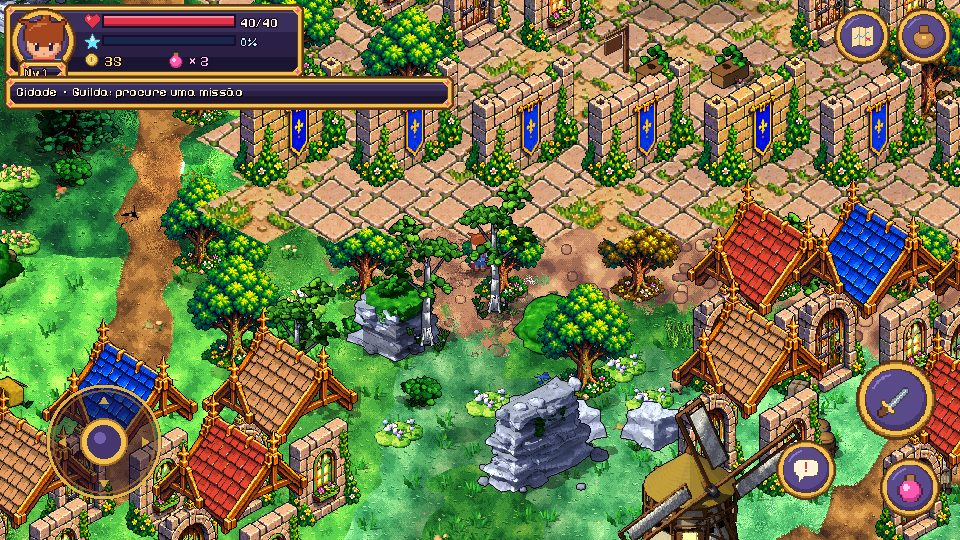
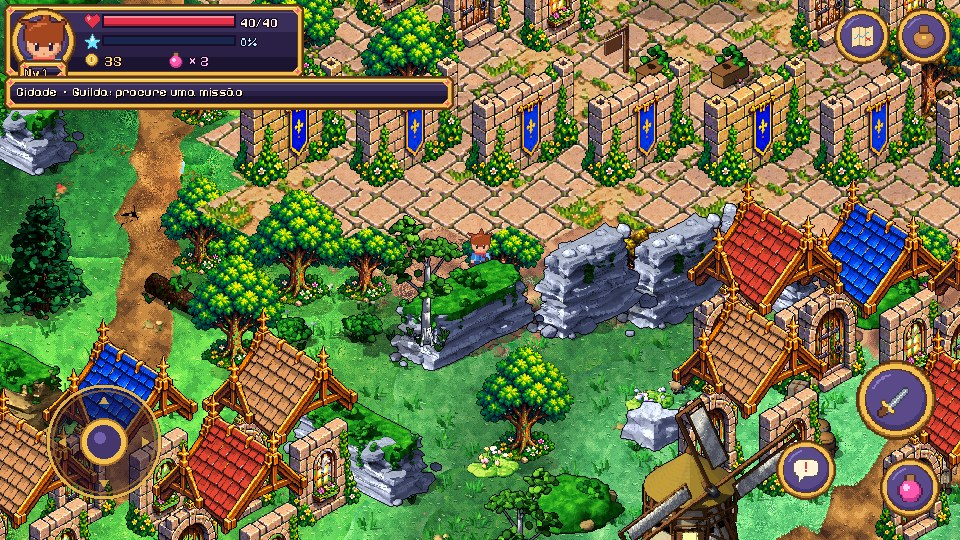
Docs: level design por região, checkpoint e capturas reais de transição/relevo
Claude-Session: https://claude.ai/code/session_01MRD4icKu6HtTnhwYzrjr8V

diff --git a/docs/planning/REG001_LEVEL_DESIGN.md b/docs/planning/REG001_LEVEL_DESIGN.md
@@ -1,0 +1,32 @@
+# REG_001 — Level design por região, relevo e transições de bioma
+
+Status: implementação técnica (não altera arte APPROVED). Gerado por `game/tools/reg001/build_world.py` (formações) e `game/tools/terrain/bake_ground.py` (chão + grade de bioma).
+
+## Princípios
+1. **Cada região tem um foco, massas de apoio, pequenos props e espaço negativo** (respiro para circulação).
+2. **Relevo é composição, não espalhamento**: cristas e paredões em linha (com vãos), mesas com colinas de pé, terraços em degraus, anfiteatros ao redor de elites, gargantas ao lado das rotas.
+3. **Nada bloqueia trilha, POI, vau, ponte ou zona de exclusão** (`_elev_ok`); a peça que bateria numa passagem some, o que abre vãos naturais. O BFS de `tests/reg001_world.gd` garante conectividade (4975 células).
+4. **Transição de bioma é gradiente**: cor (harmonização de baixa frequência no chão assado) + vegetação (ecótono via `reg001_biome_grid.json`); nunca linha reta.
+5. Jogabilidade permanece plana; peças elevadas são sprites com colisores compostos.
+
+## Transições (chão + vegetação)
+- Chão: fronteiras com campo de aviso largo (`warpL` ±115 px) → `blend_regions` (blobs) → `harmonize` (mistura a cor de baixa frequência entre famílias, sigma 60 px, faixa de proximidade 90 px, preserva grão/tufos).
+- Vegetação: `world_map.veg_biome(x, y)` usa a família dominante da grade de 32 px e mistura a família vizinha com probabilidade `(4 − d)/8` (d = distância em células até a fronteira; 50% na linha, 0% a 4 células). Props, tipos de asset e `obstacle_at` usam o mesmo bioma visual do piso.
+- Decalques por terreno (`WORLD_RULES`: relva seca na areia, relva gelada na neve, musgo, pedrinhas) entram sobre o piso já harmonizado; decalques específicos de ecótono ficam como próximo passo.
+
+## Regiões
+| Região | Foco | Massas de apoio (relevo) | Espaço negativo / circulação | Segredos e vistas |
+|---|---|---|---|---|
+| Bosque (floresta) | Clareira do Ancião, Ruínas do Primeiro Vento | Cristas de pedra ao sul e ao norte da estrada, mesa rochosa, árvores densas em maciços | Trilhas largas até acampamento, casa e mirante da torre | Passagem na mata fechada, baú do lenhador |
+| Campos | Vila dos Campos, Fazenda | Colinas suaves e terraço baixo entre cercas | Campo aberto ao redor da fazenda, estrada leste-oeste | Baú da fazenda, celeiro |
+| Vale | Aldeia, Santuário, Cripta | Crista norte, anel de colinas em volta do santuário, patamares rochosos ao sul, colinas a leste | Planície central da aldeia, vau do rio | Entrada da cripta ao sul, Jardim da Flor Ancião |
+| Pradaria / Colinas leste | Estação das Colinas | Cordilheira baixa ao norte, dois terraços em degraus, colinas ao sul | Estrada mercantil e ponte central livres | Vista para o gelo e para o deserto |
+| Gelo | Círculo de Gelo (elite), Pouso da Geada | Muralha glacial a oeste (divisa com o Bosque), anfiteatro de paredões ao norte do Círculo, garganta a leste da Passagem Estreita, muralha norte com vãos | Rota N‑S pela garganta, planície do Pouso | Gruta Congelada (nordeste), Mirante das Geadas sobre mesa de gelo |
+| Deserto | Caravana de Âmbar, Ruínas das Dunas, Oásis | Serra ao sul, cânion (duas paredes com corredor) a leste da caravana, três mesas | Dunas abertas entre a caravana e as ruínas | Duna Móvel (leste), baú enterrado, arco natural |
+
+## Peças de relevo (`build_world.py`)
+`poly` (cadeia de cristas/paredões + colinas de pé + tampas), `mesa`, `terraces`, `arc`, `scatter`, todas por `best(region, fn, ...)`: testa deslocamentos ≤ 90 px, mantém o que coloca mais peças e prefere o menor deslocamento (âncoras são sugestões). Total atual: 104 peças (antes 45).
+
+## Pendências propostas (aguardam ordem do Diretor)
+- Assets de relevo dedicados (colinas amplas que casem com a cor do piso, tampas/cantos de penhasco, rampas) — hoje reaproveita o kit MODELED_PENDING_GATE.
+- Camada de altura real (sombras projetadas do relevo no chão) — hoje só `macro_shade` no bake.

diff --git a/docs/checkpoints/CHECKPOINT_PRO_ART_ETAPA1B.md b/docs/checkpoints/CHECKPOINT_PRO_ART_ETAPA1B.md
@@ -42,3 +42,10 @@ Gate de complexidade vs APPROVED (`docs/art/PRO_ART_COMPLEXITY_VS_APPROVED.json`
 
 ## Atualização final do dia (terreno + detalhe fino)
 Terreno: 18 decalques modelados, relevo macro, lábios de estrada/água, transições orgânicas (ver `docs/relatorios/RELATORIO_DIA_2026-09-29_PARA_GERENTE_GPT.md`, §4). Detalhe fino: passada de ID por objeto, texturas mais densas, falésias em estratos; gate de complexidade 2/17 → 4/17 (arestas 0,42× → 0,53× dos APPROVED). 14/14 testes Godot 4.7.2 PASS; 58 capturas reais em `docs/visual_qa/pro/game/`.
+
+## Atualização — transições de bioma, relevo e level design (2026-09-29)
+- **Transições harmônicas**: `ground_detail.harmonize` mistura a cor de baixa frequência entre famílias de bioma (sigma 60 px, faixa 90 px) e `blend_regions` + `warpL` tornam as fronteiras orgânicas. O bake exporta `game/data/reg001_biome_grid.json`; `world_map.veg_biome` e `reg001_procedural.build_chunk` usam a grade para misturar a vegetação do bioma vizinho de forma gradual (ecótono). Estrada de neve recolorida (menos contraste).
+- **Relevo**: gerador de formações em `build_world.py` (`poly`, `mesa`, `terraces`, `arc`, `best`) — 104 peças elevadas compostas (antes 45): muralha glacial, anfiteatro do Círculo de Gelo, garganta, cordilheira e terraços das colinas, cânion e mesas do deserto, cristas do vale, colinas dos campos, cristas do bosque. Vãos abrem sozinhos onde há trilha/POI/água.
+- **Level design**: `docs/planning/REG001_LEVEL_DESIGN.md` (foco, massas, espaço negativo, segredos por região).
+- **Validação**: 14/14 testes Godot em PASS (`reg001_world`: 870 objetos, 4975 células conectadas), capturas reais 59–66 e 16/17/21/50/51/57 em `docs/visual_qa/pro/game/`.
+- **Limites honestos**: relevo ainda usa o kit MODELED_PENDING_GATE (nenhuma promoção a APPROVED); algumas formações colocam menos peças que o ideal por causa de POIs/trilhas; ecótono de decalques específico e sombras projetadas do relevo ficam para a próxima etapa.
